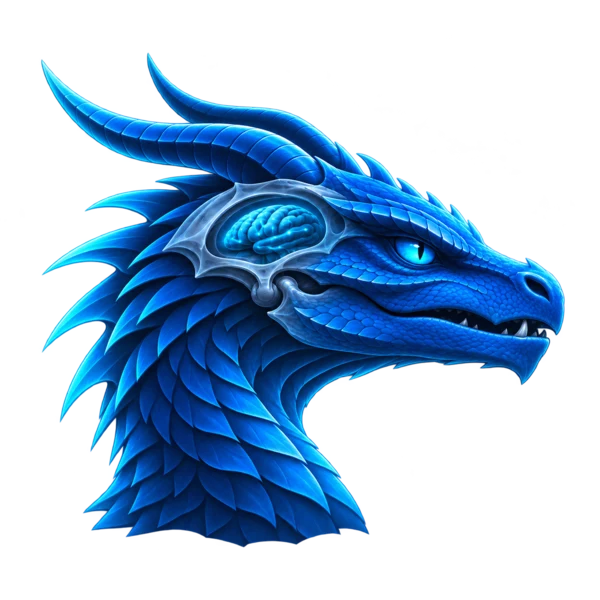
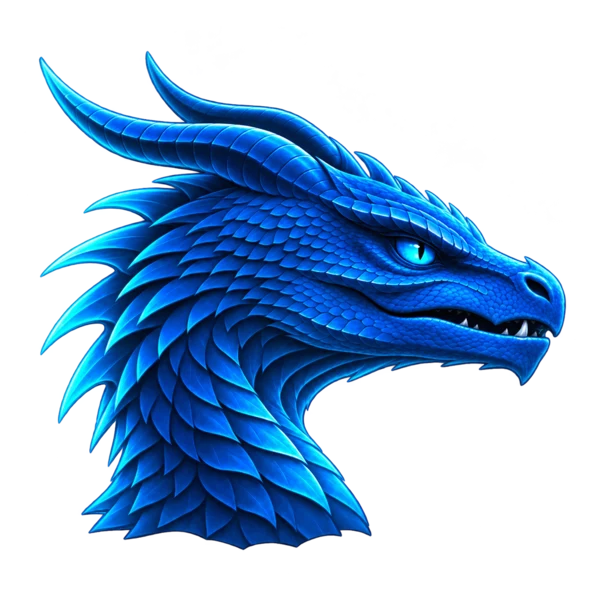
Remove exposed brain from dragon artwork while retaining cyber design and motion

diff --git a/docs/VISUAL_IDENTITY.md b/docs/VISUAL_IDENTITY.md
@@ -1,6 +1,6 @@
 # Blue Dragon visual identity
 
-The identity combines **an electric-blue dragon** (guided action) with a **neural brain and circuit nodes** (context, tools, verification). It is an original visual language rather than a recreation of another project's artwork.
+The identity combines **an electric-blue dragon** (guided action) with **circuit nodes** (context, tools, verification). It is an original visual language rather than a recreation of another project's artwork.
 
 ## Asset inventory
 
@@ -13,9 +13,9 @@ The identity combines **an electric-blue dragon** (guided action) with a **neura
 | `assets/tui-preview.svg` | SVG | **Illustrative concept** for PR #1, not a live screenshot |
 | `assets/neural-console-preview.gif` | Animated GIF | Multi-frame illustrative terminal walkthrough that plays in ordinary GitHub README image viewers; **not a real captured session** |
 
-## Anatomy and consistency
-The brain is a small cutaway inside the upper rear skull, behind the eye and above the jaw hinge. It must never sit in the throat, neck or lower jaw. The hero, workflow and compact mark use the same right-facing dragon identity, with a recognizable snout, eye, distinct jaw, swept-back horns and scaled neck.
-The workflow SVG and logo embed a small PNG of the approved head: self-contained images, with no remote dependencies or JavaScript. Keep cranial tissue within the skull if the character is revised.
+## Dragon identity
+The current character is an intact scaled blue dragon: no exposed brain, cranial window, cutaway, chip or anatomical diagram. The hero, workflow and compact mark share this character. Preserve the original cyber composition, travelling signals, rotating orbit and pulses.
+The workflow SVG and logo embed a small PNG of the companion head, with no remote dependencies or JavaScript.
 
 ## Motion and interactivity
 
@@ -45,3 +45,6 @@ The generated hero is assets/blue-dragon-hero.webp; the transparent companion is
 
 ## Motion restoration
 The original neural-workflow layout is retained: all six travelling SVG signal animations, rotating orbit, grid, glow filters and original panels. Only the ambiguous central dragon is replaced. The hero retains its original cyber frames, badges, icon connections and typography, with the corrected cranial brain. The previous minimal composition is superseded. Built-in image editing used both the original hero and the corrected dragon as references; surrounding identity was preserved.
+
+## Final user revision: intact dragon
+The cranial cutaway was removed from both raster assets with built-in image editing. Prompt: remove only the brain and its entire window/frame, seamlessly fill with intact blue scales, preserve pose, cyber composition, typography, icons, lighting and transparency. Current assets are assets/blue-dragon-hero.webp and assets/dragon-head.webp; both native SVGs embed the intact head. Earlier cutaway descriptions above refer to superseded artwork.

diff --git a/docs/SHOWCASE.md b/docs/SHOWCASE.md
@@ -4,9 +4,9 @@
 
 ## 01 · Identity
 
-![Blue Dragon: electric dragon protecting a neural brain](../assets/blue-dragon-hero.webp)
+![Blue Dragon: intact electric-blue cyber dragon](../assets/blue-dragon-hero.webp)
 
-The dragon stands for deliberate execution; the circuit brain stands for project context and tool orchestration. The visual language is original, not borrowed from another project's branding.
+The dragon stands for deliberate execution; the surrounding circuit motifs stand for project context and tool orchestration. The visual language is original, not borrowed from another project's branding.
 
 ## 02 · The Dragon Mind
 

diff --git a/README.md b/README.md
@@ -1,5 +1,5 @@
 <p align="center">
-  <img src="assets/blue-dragon-hero.webp" alt="Blue Dragon — a blue dragon with its neural brain enclosed inside the skull" width="100%" />
+  <img src="assets/blue-dragon-hero.webp" alt="Blue Dragon — an intact electric-blue dragon with cyber lighting" width="100%" />
 </p>
 
 <h1 align="center">BLUE DRAGON</h1>
